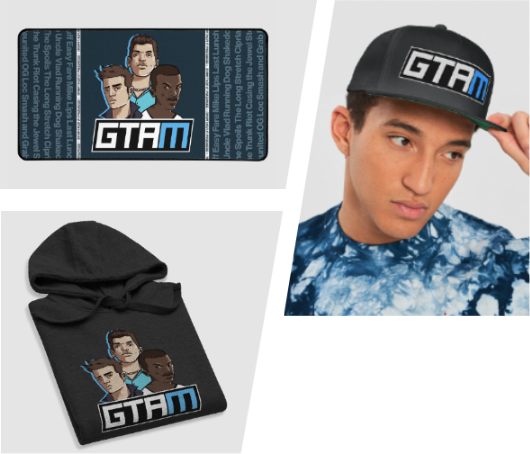
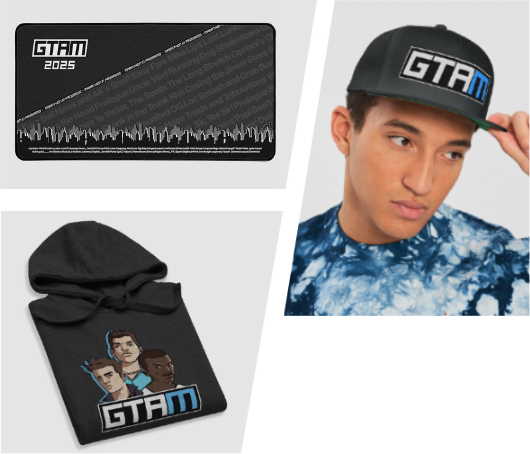
hotfix: Update merch store and submission information

Changed region(s): [[0.0302, 0.0308, 0.5434, 0.37]]

diff --git a/src/app/page.tsx b/src/app/page.tsx
@@ -15,7 +15,7 @@ const links = [
   { id: 'charity', label: 'Charity' },
   { id: 'merch', label: 'Merch' },
   { id: 'guide', label: 'Attendee Guide' },
-  { id: 'runs', label: 'Submissions' },
+  { id: 'runs', label: 'Schedule' },
   { id: 'contact', label: 'Stay in Touch' },
 ];
 
@@ -157,7 +157,7 @@ const sectionsMobile = [
           Every purchase directly supports us in staying afloat, and thus being able to bring you these productions year after year.
           Not to mention, according to our customers, they look stylish as hell!
           <br /> <br />
-          Browse our all-year-round selection, or wait a little for the seasonal arrivals coming soon!
+          Browse our all-year-round selection, or check out our seasonal exclusives now!
         </p>
 
         <div className="mt-8">
@@ -214,19 +214,19 @@ const sectionsMobile = [
     content: (
       <div className="relative bottom-[-210px] p-8 section-content px-4 flex flex-col items-center text-center">
         <h1 className="text-4xl text-white font-bold uppercase font-europagrotesk">
-          It&apos;s your time to shine
+          SCHEDULE
         </h1>
         <p className="xl:text-[24x]/[27px] text-white mt-8 mb-8 font-centurygothic">
-        If you want to contribute to the event, either from the comfort of your home, or in person at the Eldon Building, we await your submissions with open arms! Submit your best and craziest ideas, let&apos;s make this one a truly special occasion!
+        Stay tuned for more information!
         </p>
         <div className="mt-12">
           <a
-            href="https://oengus.io/marathon/gtam2025"
+            href=""
             target="_blank"
             rel="noopener noreferrer"
-            className="bg-[#ffea00] text-black py-3 px-6 font-bold text-[40px] inline-block hover:bg-yellow-300 transition uppercase max-xl:text-lg font-europagrotesk"
+            className="bg-[#ffea00] text-black py-3 px-6 font-bold text-[40px] inline-block hover:bg-yellow-300 transition uppercase max-xl:text-lg font-europagrotesk pointer-events-none"
           >
-            Submit
+            Coming soon
           </a>
         </div>
       </div>
@@ -449,7 +449,7 @@ const sectionsDesktop = [
             Every purchase directly supports us in staying afloat, and thus being able to bring you these productions year after year.
             Not to mention, according to our customers, they look stylish as hell!
             <br /> <br />
-            Browse our all-year-round selection, or wait a little for the seasonal arrivals coming soon!
+            Browse our all-year-round selection, or check out our seasonal exclusives now!
           </p>
           <div className="mt-[100px]">
             <a
@@ -518,19 +518,19 @@ const sectionsDesktop = [
     content: (
       <div className="relative lg:bottom-[-350px] bottom-[-350px] p-8 section-content px-4 flex flex-col items-center text-center">
         <h1 className="text-[50px] text-white font-bold uppercase max-xl:text-3xl font-europagrotesk">
-          It&apos;s your time to shine
+          SCHEDULE
         </h1>
         <p className="text-[20px] text-white mt-5 mb-8 max-xl:text-base font-centurygothic">
-        If you want to contribute to the event, either from the comfort of your home, or in person at the Eldon Building, we await your submissions with open arms! Submit your best and craziest ideas, let&apos;s make this one a truly special occasion!
+        Stay tuned for more information!
         </p>
         <div className="mt-12">
           <a
-            href="https://oengus.io/marathon/gtam2025"
+            href=""
             target="_blank"
             rel="noopener noreferrer"
-            className="bg-[#ffea00] text-black py-[3px] px-4 font-bold text-[45px] inline-block hover:bg-yellow-300 transition uppercase max-xl:text-lg font-europagrotesk"
+            className="bg-[#ffea00] text-black py-[3px] px-4 font-bold text-[45px] inline-block hover:bg-yellow-300 transition uppercase max-xl:text-lg font-europagrotesk pointer-events-none"
           >
-            Submit
+            Coming soon
           </a>
         </div>
       </div>
